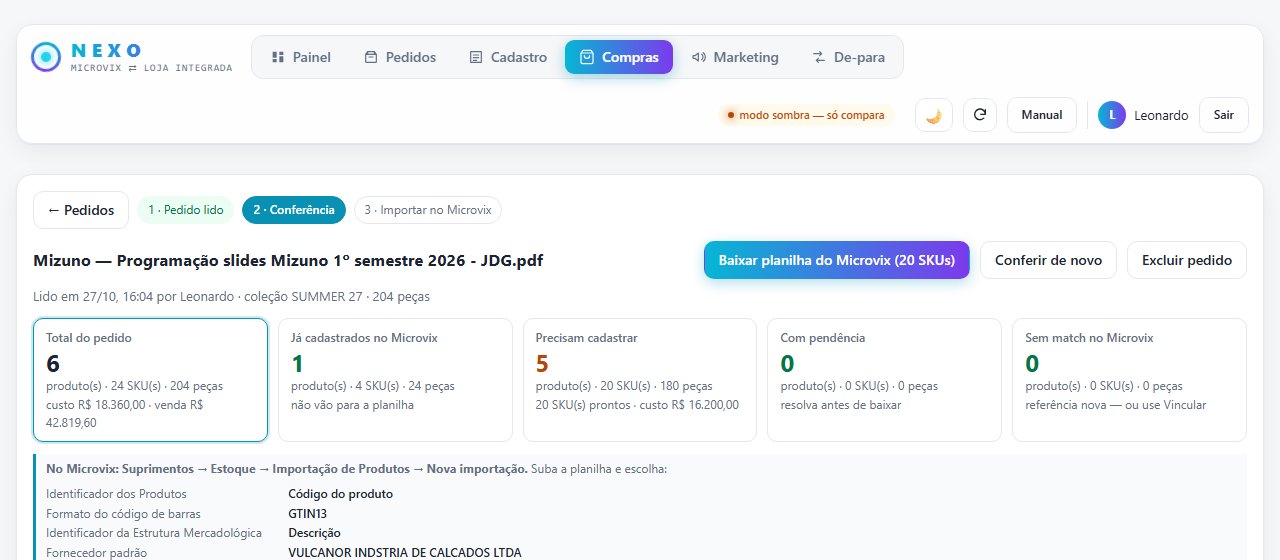
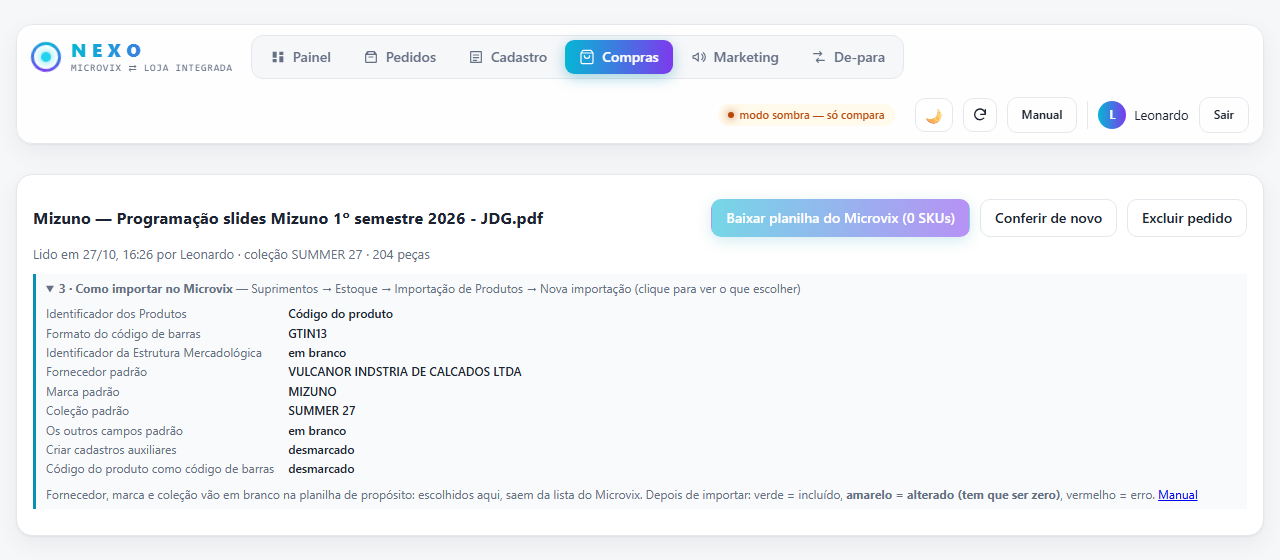
Manual Pedidos de Compra: estrutura mercadológica em branco e recalcular preço do pedido

diff --git a/public/manuais/pedidos-compra.html b/public/manuais/pedidos-compra.html
@@ -431,6 +431,7 @@
           <div><dt>Mark-up</dt><dd><em>vazio = o da marca (</em><a href="/manuais/cadastro-produto#marcas">tabela por marca</a><em>); ou digite, ex.: 2,3</em></dd></div>
         </dl>
         <p>Clique em <span class="btn">Aplicar</span>. O preço calculado <b>sempre termina em ,90</b>, o mais perto da conta: R$ 90,00 &times; 2,3 = R$ 207,00 &rarr; <b>R$ 209,90</b>.</p>
+        <p><b>Quer trocar também o preço que veio no pedido?</b> Marque <b>"Também onde o pedido tem preço"</b> e clique em <span class="btn">Aplicar</span>: o mark-up passa por cima do preço sugerido pelo fornecedor. Desmarcou, volta o preço do pedido.</p>
         <p>Preço digitado na tabela é seu: mudar o mark-up depois não troca ele.</p>
         <figure class="tela"><img src="/manuais/pedidos-compra/preco.png" alt="Pedido da Mizuno com mark-up 2,3: custo R$ 90,00 e venda R$ 209,90, com a anotação custo × 2,3" loading="lazy"><figcaption>Exemplo &middot; Mizuno com mark-up 2,3</figcaption></figure>
       </div>
@@ -482,7 +483,7 @@
         <dl class="campos">
           <div><dt>Identificador dos Produtos</dt><dd>Código do produto</dd></div>
           <div><dt>Formato do código de barras</dt><dd>GTIN13</dd></div>
-          <div><dt>Identificador da Estrutura Mercadológica</dt><dd>Descrição</dd></div>
+          <div><dt>Identificador da Estrutura Mercadológica</dt><dd><em>em branco</em></dd></div>
           <div><dt>Fornecedor padrão</dt><dd>o do quadro do NEXO</dd></div>
           <div><dt>Marca padrão</dt><dd>a do quadro do NEXO</dd></div>
           <div><dt>Coleção padrão</dt><dd>a do quadro do NEXO</dd></div>
@@ -493,7 +494,7 @@
         <figure class="tela"><img src="/manuais/pedidos-compra/importar.png" alt="Quadro do NEXO com as opções da importação: identificador Código do produto, formato GTIN13, estrutura por Descrição, fornecedor, marca e coleção do pedido" loading="lazy"><figcaption>NEXO &middot; o que escolher para este pedido</figcaption></figure>
         <figure class="tela"><img src="/manuais/pedidos-compra/microvix-importacao.png" alt="Tela Nova Importação de Produtos do Microvix com o arquivo, identificador, formato do código de barras e os campos padrão" loading="lazy"><figcaption>Microvix &middot; Nova importação de produtos</figcaption></figure>
         <div class="aviso">
-          <b>Por que esses valores.</b> <b>Código do produto</b>: a planilha vai com o código vazio, então todo produto entra como novo. <b>Nunca use Referência</b>: todos os tamanhos e cores têm a mesma referência, e o Microvix acharia que é um produto só. <b>Descrição</b>: a planilha manda setor, tamanho e cor pelo nome. <b>Criar cadastros auxiliares desmarcado</b>: assim, uma cor ou um tamanho escrito diferente vira erro, em vez de virar um cadastro novo errado.
+          <b>Por que esses valores.</b> <b>Código do produto</b>: a planilha vai com o código vazio, então todo produto entra como novo. <b>Nunca use Referência</b>: todos os tamanhos e cores têm a mesma referência, e o Microvix acharia que é um produto só. <b>Criar cadastros auxiliares desmarcado</b>: assim, uma cor ou um tamanho escrito diferente vira erro, em vez de virar um cadastro novo errado.
         </div>
       </div>
     </li>
@@ -526,7 +527,7 @@
       <li><label><input type="checkbox"><span>Nenhuma pendência em vermelho, ou o produto ficou como "Fora" de propósito.</span></label></li>
       <li><label><input type="checkbox"><span>Preço de venda conferido: o do pedido ou custo &times; mark-up terminando em ,90.</span></label></li>
       <li><label><input type="checkbox"><span>Setor e descrição dos produtos novos fazem sentido (não é CINTO nem GERAL por engano).</span></label></li>
-      <li><label><input type="checkbox"><span>No Microvix: Código do produto, GTIN13 e Descrição; cadastros auxiliares desmarcado.</span></label></li>
+      <li><label><input type="checkbox"><span>No Microvix: Código do produto e GTIN13; estrutura mercadológica em branco; cadastros auxiliares desmarcado.</span></label></li>
       <li><label><input type="checkbox"><span>Fornecedor, marca e coleção padrão iguais aos do quadro do NEXO.</span></label></li>
     </ul>
   </section>
